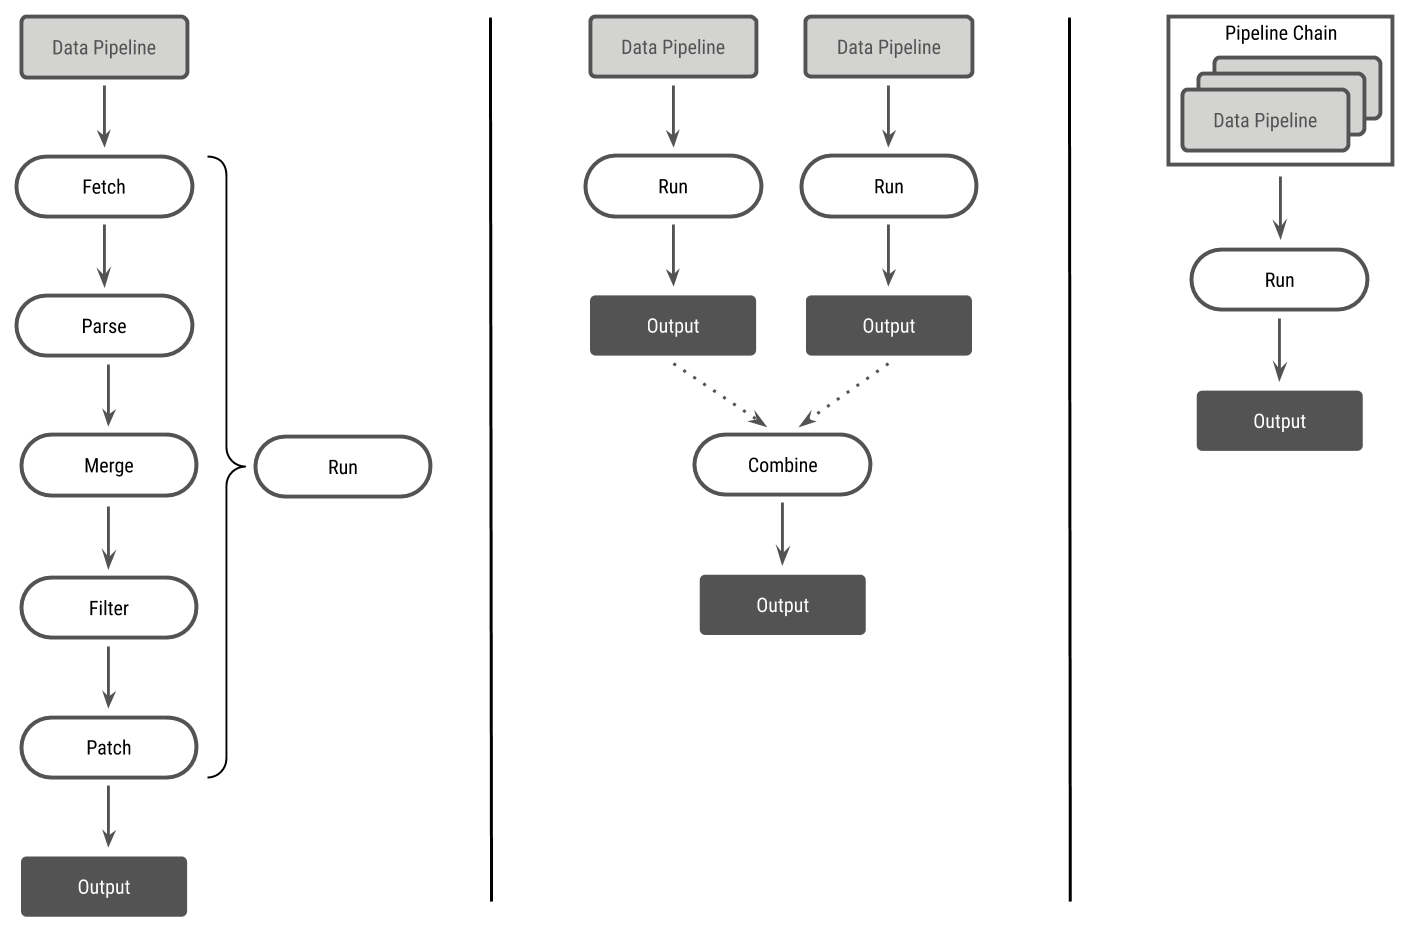
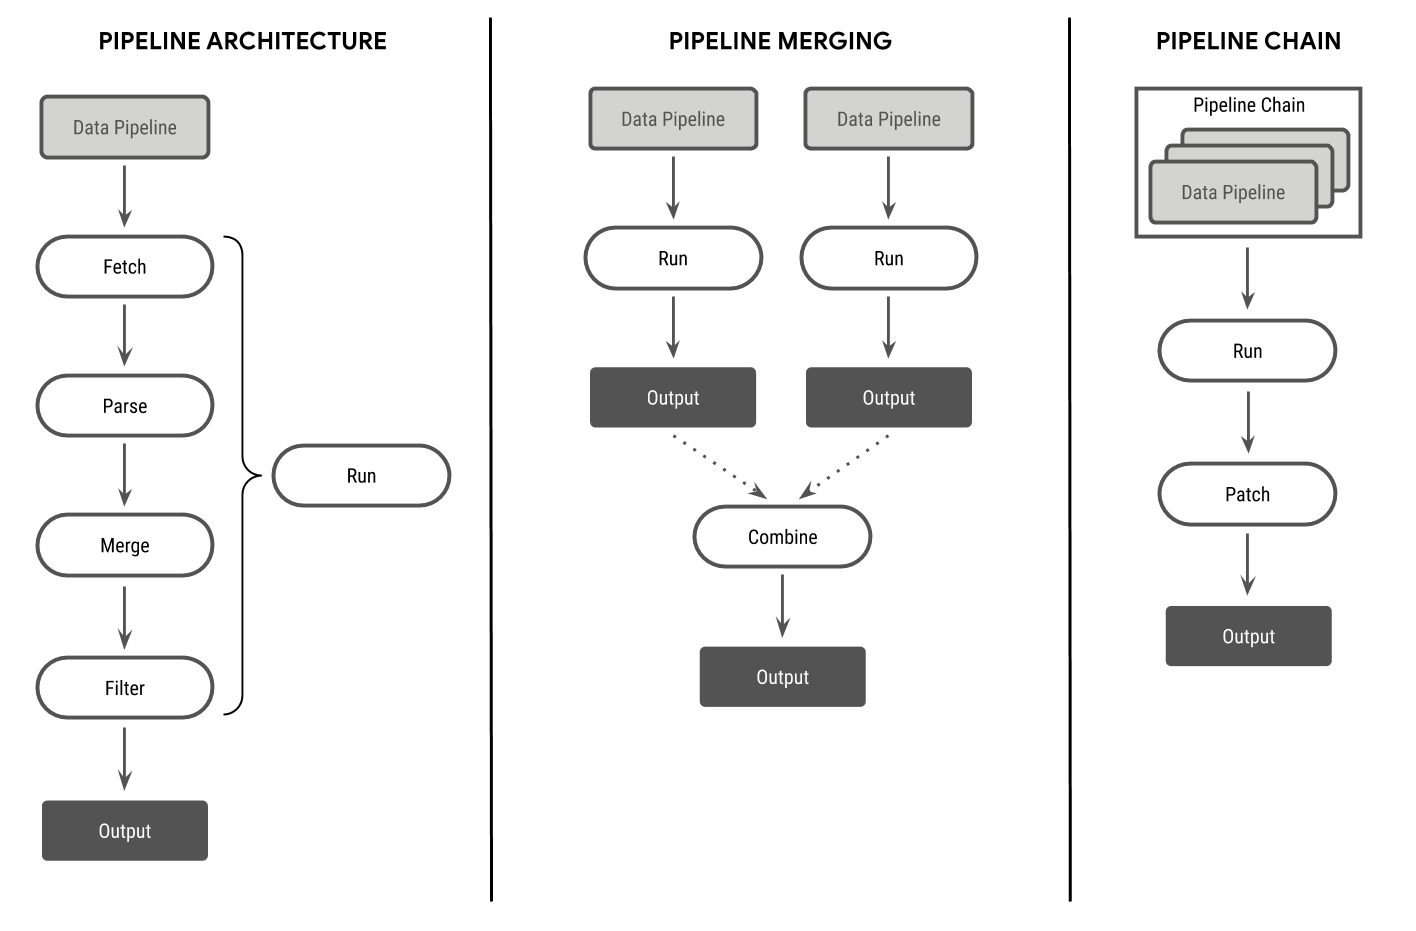
Remove `patch` from individual pipelines
The hotfixing functionality should be included at the pipeline chain
level instead, so a single hotfix dataframe can be used for each table

diff --git a/src/scripts/backcompat_forecast.py b/src/scripts/backcompat_forecast.py
@@ -1,0 +1,132 @@
+#!/usr/bin/env python
+
+import os
+import sys
+import datetime
+from pathlib import Path
+
+import numpy as np
+import pandas as pd
+from tqdm import tqdm
+from scipy import optimize
+
+# This script must be run from /src
+sys.path.append(os.getcwd())
+from lib.io import read_file
+from lib.utils import ROOT
+
+
+def _get_outbreak_mask(data: pd.DataFrame, threshold: int = 10):
+    """ Returns a mask for > N confirmed cases. Used to filter out uninteresting dates """
+    return data["Confirmed"] > threshold
+
+
+def _logistic_function(X: float, a: float, b: float, c: float):
+    """
+    Used for prediction model. Uses the function:
+    `f(x) = a * e^(-b * e^(-cx))`
+    """
+    return a * np.exp(-b * np.exp(-c * X))
+
+
+def _forward_indices(indices: list, window: int):
+    """ Adds `window` indices to a list of dates """
+    date_indices = [datetime.date.fromisoformat(idx) for idx in indices]
+    for _ in range(window):
+        date_indices.append(date_indices[-1] + datetime.timedelta(days=1))
+    return [idx.isoformat() for idx in date_indices]
+
+
+def _compute_forecast(data: pd.Series, window: int):
+    """
+    Perform a forecast of `window` days past the last day of `data`, including a model estimate of
+    all days already existing in `data`.
+    """
+
+    # Some of the parameter fittings result in overflow
+    np.seterr(all="ignore")
+
+    # Perform a simple fit of all available data up to this date
+    X, y = list(range(len(data))), data.tolist()
+    # Providing a reasonable initial guess is crucial for this model
+    params, _ = optimize.curve_fit(
+        _logistic_function, X, y, maxfev=int(1e6), p0=[max(y), np.median(X), 0.1]
+    )
+
+    # Append N new days to our indices
+    date_indices = _forward_indices(data.index, window)
+
+    # Perform projection with the previously estimated parameters
+    projected = [_logistic_function(x, *params) for x in range(len(X) + window)]
+    return pd.Series(projected, index=date_indices, name="Estimated")
+
+
+def _compute_record_key(record: dict):
+    """ Outputs the primary key for a dataframe row """
+    region_code = record.get("RegionCode")
+    country_code = record["CountryCode"]
+    key_suffix = "" if not region_code or pd.isna(region_code) else "_%s" % region_code
+    return country_code + key_suffix
+
+
+def main():
+    # Parse parameters
+    PREDICT_WINDOW = 7
+    DATAPOINT_COUNT = 28 + PREDICT_WINDOW
+
+    # Read data from the open COVID-19 dataset
+    df = pd.read_csv(ROOT / "public" / "data_minimal.csv").set_index("Date")
+
+    # Create the output dataframe ahead, we will fill it one row at a time
+    forecast_columns = ["ForecastDate", "Date", "Key", "Estimated", "Confirmed"]
+    df_forecast = pd.DataFrame(columns=forecast_columns).set_index(["Date", "Key"])
+
+    # Loop through each unique combination of country / region
+    for key in tqdm(df["Key"].unique()):
+
+        # Filter dataset
+        cols = ["Key", "Confirmed"]
+        # Get data only for the selected country / region
+        subset = df[df["Key"] == key][cols]
+        # Get data only after the outbreak begun
+        subset = subset[_get_outbreak_mask(subset)]
+        # Early exit: no outbreak found
+        if not len(subset):
+            continue
+        # Get a list of dates for existing data
+        date_range = map(
+            lambda datetime: datetime.date().isoformat(),
+            pd.date_range(subset.index[0], subset.index[-1]),
+        )
+
+        # Forecast date is equal to the date of the last known datapoint, unless manually supplied
+        forecast_date = subset.index[-1]
+        subset = subset[subset.index <= forecast_date].sort_index()
+
+        # Sometimes our data appears to have duplicate values for specific cases, work around that
+        subset = subset.query("~index.duplicated()")
+
+        # Early exit: If there are less than DATAPOINT_COUNT output datapoints
+        if len(subset) < DATAPOINT_COUNT - PREDICT_WINDOW:
+            continue
+
+        # Perform forecast
+        forecast_data = _compute_forecast(subset["Confirmed"], PREDICT_WINDOW)
+
+        # Capture only the last DATAPOINT_COUNT days
+        forecast_data = forecast_data.sort_index().iloc[-DATAPOINT_COUNT:]
+
+        # Fill out the corresponding index in the output forecast
+        for idx in forecast_data.index:
+            df_forecast.loc[(idx, key), "ForecastDate"] = forecast_date
+            df_forecast.loc[(idx, key), "Estimated"] = forecast_data.loc[idx]
+            if idx in subset.index:
+                df_forecast.loc[(idx, key), "Confirmed"] = int(subset.loc[idx, "Confirmed"])
+
+    # Do data cleanup here
+    data = df_forecast.reset_index()
+    forecast_columns = ["ForecastDate", "Date", "Key", "Estimated", "Confirmed"]
+    data = data.sort_values(["Key", "Date"])[forecast_columns]
+
+    # Output resulting dataframe
+    return data

diff --git a/src/lib/pipeline.py b/src/lib/pipeline.py
@@ -30,7 +30,6 @@ class DataPipeline:
     1. Parse: convert raw data to structured format
     1. Merge: associate each record with a known `key`
     1. Filter: filter out unneeded data and keep only desired output columns
-    1. Patch: apply hotfixes to specific data issues
     """
 
     def fetch(self, cache: Dict[str, str], **fetch_opts) -> List[str]:
@@ -56,12 +55,6 @@ class DataPipeline:
         """ Outputs a filtered version of the input dataset respecting `filter_opts`. """
         ...
 
-    def patch(self, data: DataFrame, patch: DataFrame, **patch_opts) -> DataFrame:
-        """
-        Outputs a patched version of the dataframe overwriting records from `data` with `patch`.
-        """
-        ...
-
     def run(
         self,
         cache: Dict[str, str],
@@ -71,8 +64,6 @@ class DataPipeline:
         merge_opts: Dict[str, Any] = None,
         filter_func: Callable[[Any], bool] = None,
         filter_opts: Dict[str, Any] = None,
-        patch: DataFrame = None,
-        patch_opts: Dict[str, Any] = None,
     ) -> DataFrame:
         data: DataFrame = None
 
@@ -93,10 +84,6 @@ class DataPipeline:
         if filter_func is not None:
             data = self.filter(data, filter_func, **(filter_opts or {}))
 
-        # Patch the data only if necessary
-        if patch is not None:
-            data = self.patch(data, patch, **(patch_opts or {}))
-
         # Return the final dataframe
         return data
 
@@ -107,7 +94,6 @@ class DefaultPipeline(DataPipeline):
     * Fetch: downloads raw data from a list of URLs into ../snapshots folder. See [lib.net].
     * Merge: outputs a key from the auxiliary dataset after performing best-effort matching.
     * Filter: applies `filter_func` to each record and keeps the rows for which the result is `true`
-    * Patch: applies the `patch` dataframe to substitute the values in the existing dataframe
 
     The merge function provided here is crucial for many pipelines that use it. The easiest/fastest
     way to merge records is by providing the exact `key` that will match an existing record in the
@@ -200,11 +186,6 @@ class DefaultPipeline(DataPipeline):
         self, data: DataFrame, filter_func: Callable[[Any], bool], **filter_opts
     ) -> DataFrame:
         return data[data.apply(filter_func, axis=1)]
-
-    def patch(self, data: DataFrame, patch: DataFrame, **patch_opts) -> DataFrame:
-        data = data.copy()
-        data[patch.index] = patch
-        return data
 
     def parse_dataframes(
         self, dataframes: List[DataFrame], aux: Dict[str, DataFrame], **parse_opts

diff --git a/src/scripts/publish_dataset.py b/src/scripts/publish_dataset.py
@@ -11,6 +11,8 @@ sys.path.append(os.getcwd())
 from lib.io import read_file
 from lib.utils import ROOT
 
+from backcompat_forecast import main as build_forecast
+
 
 def snake_to_camel_case(txt: str) -> str:
     """ Used to convert V2 column names to V1 column names for backwards compatibility """
@@ -57,13 +59,7 @@ data = data.sort_values(["Date", "Key"])
 data.to_csv(v1_folder / "data.csv", index=False)
 
 # Create the v1 minimal.csv file
-data[['Date', 'Key', 'Confirmed', 'Deaths']].to_csv(v1_folder / 'minimal.csv', index=False)
-
-# Create the v1 mobility.csv file
-# TMP: mobility reports are not in V2 yet, copy that last known one as-is
-read_csv(
-    "https://open-covid-19.github.io/data/mobility.csv", keep_default_na=False, na_values=[""]
-).to_csv(v1_folder / "mobility.csv", index=False)
+data[["Date", "Key", "Confirmed", "Deaths"]].to_csv(v1_folder / "data_minimal.csv", index=False)
 
 # Create the v1 CSV files which only require column mapping
 v1_v2_name_map = {"response": "oxford-government-response", "weather": "weather"}
@@ -71,6 +67,15 @@ for v1_name, v2_name in v1_v2_name_map.items():
     df = read_csv(v2_folder / f"{v2_name}.csv")
     df.columns = list(map(snake_to_camel_case, df.columns))
     df.to_csv(v1_folder / f"{v1_name}.csv", index=False)
+
+# Create the v1 mobility.csv file
+build_forecast().to_csv(v1_folder / "forecast.csv", index=False)
+read_csv(
+    "https://open-covid-19.github.io/data/mobility.csv", keep_default_na=False, na_values=[""]
+).to_csv(v1_folder / "mobility.csv", index=False)
+
+# Create the v1 forecast.csv file
+build_forecast().to_csv(v1_folder / 'forecast.csv', index=False)
 
 # Convert all v1 CSV files to JSON using record format
 for csv_file in (v1_folder).glob("*.csv"):

diff --git a/cache/fetch.py b/cache/fetch.py
@@ -82,7 +82,7 @@ for source in json.loads(open("cached_sources.json", "r").read()):
 # Build a "sitemap" of the cache output folder
 sitemap: Dict[str, List[str]] = {}
 for snapshot in output_path.iterdir():
-    if str(snapshot).startswith(".") or snapshot.name == "sitemap.json":
+    if snapshot.name.startswith(".") or snapshot.name == "sitemap.json":
         continue
     if snapshot.is_file():
         warnings.warn(f"Unexpected file seen in root of {snapshot}")
@@ -94,7 +94,7 @@ for snapshot in output_path.iterdir():
         sitemap_key = cached_file.stem
         snapshot_list = sitemap.get(sitemap_key, [])
         snapshot_list.append(str(cached_file.relative_to(output_path)))
-        sitemap[sitemap_key] = snapshot_list
+        sitemap[sitemap_key] = list(sorted(snapshot_list))
 
 # Output the sitemap
 with open(output_path / "sitemap.json", "w") as fd:

diff --git a/README.md b/README.md
@@ -111,7 +111,7 @@ region, which is helpful for displaying purposes or when merging with other data
 | **subregion2_name** | `string` | (Optional) American English name of the county (or local equivalent), subject to change | Alameda County |
 | **3166-1-alpha-2** | `string` | ISO 3166-1 alphanumeric 2-letter code of the country | US |
 | **3166-1-alpha-3** | `string` | ISO 3166-1 alphanumeric 3-letter code of the country | USA |
-| **aggregation_level** | `integer` [0-2] | Level at which data is aggregated, i.e. country, state/province or county level | 2 |
+| **aggregation_level** | `integer` `[0-2]` | Level at which data is aggregated, i.e. country, state/province or county level | 2 |
 
 ### Demographics
 Information related to the population demographics for each region:
@@ -129,8 +129,8 @@ Information related to the economic development for each region:
 | Name | Name | Description | Example |
 | ---- | ---- | ----------- | ------- |
 | **key** | `string` | Unique string identifying the region | CN_HB |
-| **gdp** | `integer` [USD] | Gross domestic product; monetary value of all finished goods and services | 24450604878 |
-| **gdp_per_capita** | `integer` [USD] | Gross domestic product divided by total population | 1148 |
+| **gdp** | `integer` `[USD]` | Gross domestic product; monetary value of all finished goods and services | 24450604878 |
+| **gdp_per_capita** | `integer` `[USD]` | Gross domestic product divided by total population | 1148 |
 
 ### Epidemiology
 Information related to the COVID-19 infections for each date-region pair:
@@ -174,24 +174,24 @@ Summary of a government's response to the events, including a *stringency index*
 | ---- | ---- | ----------- | ------- |
 | **date** | `string` | ISO 8601 date (YYYY-MM-DD) of the datapoint | 2020-03-30 |
 | **key** | `string` | Unique string identifying the region | US_CA |
-| **school_closing** | `integer` [0-3] | Schools are closed | 2 |
-| **workplace_closing** | `integer` [0-3] | Workplaces are closed | 2 |
-| **cancel_public_events** | `integer` [0-3] | Public events have been cancelled | 2 |
-| **restrictions_on_gatherings** | `integer` [0-3] | Gatherings of non-household members are restricted | 2 |
-| **public_transport_closing** | `integer` [0-3] | Public transport is not operational | 0 |
-| **stay_at_home_requirements** | `integer` [0-3] | Self-quarantine at home is mandated for everyone | 0 |
-| **restrictions_on_internal_movement** | `integer` [0-3] | Travel within country is restricted | 1 |
-| **international_travel_controls** | `integer` [0-3] | International travel is restricted | 3 |
-| **income_support** | `integer` [USD] | Value of fiscal stimuli, including spending or tax cuts | 20449287023 |
-| **debt_relief** | `integer` [0-3] | Debt/contract relief for households | 0 |
-| **fiscal_measures** | `integer` [USD] | Value of fiscal stimuli, including spending or tax cuts | 20449287023 |
-| **international_support** | `integer` [USD] | Giving international support to other countries | 274000000 |
-| **public_information_campaigns** | `integer` [0-2] | Government has launched public information campaigns | 1 |
-| **testing_policy** | `integer` [0-3] | Country-wide COVID-19 testing policy | 1 |
-| **contact_tracing** | `integer` [0-2] | Country-wide contact tracing policy | 1 |
-| **emergency_investment_in_healthcare** | `integer` [USD] | Emergency funding allocated to healthcare | 500000 |
-| **investment_in_vaccines** | `integer` [USD] | Emergency funding allocated to vaccine research | 100000 |
-| **stringency_index** | `double` [0-100] | Overall stringency index | 71.43 |
+| **school_closing** | `integer` `[0-3]` | Schools are closed | 2 |
+| **workplace_closing** | `integer` `[0-3]` | Workplaces are closed | 2 |
+| **cancel_public_events** | `integer` `[0-3]` | Public events have been cancelled | 2 |
+| **restrictions_on_gatherings** | `integer` `[0-3]` | Gatherings of non-household members are restricted | 2 |
+| **public_transport_closing** | `integer` `[0-3]` | Public transport is not operational | 0 |
+| **stay_at_home_requirements** | `integer` `[0-3]` | Self-quarantine at home is mandated for everyone | 0 |
+| **restrictions_on_internal_movement** | `integer` `[0-3]` | Travel within country is restricted | 1 |
+| **international_travel_controls** | `integer` `[0-3]` | International travel is restricted | 3 |
+| **income_support** | `integer` `[USD]` | Value of fiscal stimuli, including spending or tax cuts | 20449287023 |
+| **debt_relief** | `integer` `[0-3]` | Debt/contract relief for households | 0 |
+| **fiscal_measures** | `integer` `[USD]` | Value of fiscal stimuli, including spending or tax cuts | 20449287023 |
+| **international_support** | `integer` `[USD]` | Giving international support to other countries | 274000000 |
+| **public_information_campaigns** | `integer` `[0-2]` | Government has launched public information campaigns | 1 |
+| **testing_policy** | `integer` `[0-3]` | Country-wide COVID-19 testing policy | 1 |
+| **contact_tracing** | `integer` `[0-2]` | Country-wide contact tracing policy | 1 |
+| **emergency_investment_in_healthcare** | `integer` `[USD]` | Emergency funding allocated to healthcare | 500000 |
+| **investment_in_vaccines** | `integer` `[USD]` | Emergency funding allocated to vaccine research | 100000 |
+| **stringency_index** | `double` `[0-100]` | Overall stringency index | 71.43 |
 
 For more information about each field and how the overall stringency index is
 computed, see the [Oxford COVID-19 government response tracker][18].
@@ -204,11 +204,11 @@ Daily weather information from nearest station reported by NOAA:
 | **date** | `string` | ISO 8601 date (YYYY-MM-DD) of the datapoint | 2020-03-30 |
 | **key** | `string` | Unique string identifying the region | US_CA |
 | **station** | `string` | Identifier for the weather station | USC00206080 |
-| **distance** | `double` [kilometers] | Distance between the location coordinates and the weather station | 28.693 |
-| **minimum_temperature** | `double` [celsius] | Recorded hourly minimum temperature | 1.7 |
-| **maximum_temperature** | `double` [celsius] | Recorded hourly maximum temperature | 19.4 |
-| **rainfall** | `double` [millimeters] | Rainfall during the entire day | 51.0 |
-| **snowfall** | `double` [millimeters] | Snowfall during the entire day | 0.0 |
+| **distance** | `double` `[kilometers]` | Distance between the location coordinates and the weather station | 28.693 |
+| **minimum_temperature** | `double` `[celsius]` | Recorded hourly minimum temperature | 1.7 |
+| **maximum_temperature** | `double` `[celsius]` | Recorded hourly maximum temperature | 19.4 |
+| **rainfall** | `double` `[millimeters]` | Rainfall during the entire day | 51.0 |
+| **snowfall** | `double` `[millimeters]` | Snowfall during the entire day | 0.0 |
 
 ### Google Mobility
 Google's [Mobility Reports][17] are presented in CSV form as
@@ -219,12 +219,12 @@ following columns:
 | ---- | ---- | ----------- | ------- |
 | **date** | `string` | ISO 8601 date (YYYY-MM-DD) of the datapoint | 2020-03-30 |
 | **key** | `string` | Unique string identifying the region | US_CA |
-| **transit_stations** | `double` [%] |  Percentage change in visits to transit station locations | -15 |
-| **retail_and_recreation** | `double` [%] |  Percentage change in visits to retail and recreation locations | -15 |
-| **grocery_and_pharmacy** | `double` [%] |  Percentage change in visits to grocery and pharmacy locations | -15 |
-| **parks** | `double` [%] |  Percentage change in visits to park locations | -15 |
-| **residential** | `double` [%] |  Percentage change in visits to residential locations | -15 |
-| **workplaces** | `double` [%] |  Percentage change in visits to workplace locations | -15 |
+| **transit_stations** | `double` `[%]` |  Percentage change in visits to transit station locations | -15 |
+| **retail_and_recreation** | `double` `[%]` |  Percentage change in visits to retail and recreation locations | -15 |
+| **grocery_and_pharmacy** | `double` `[%]` |  Percentage change in visits to grocery and pharmacy locations | -15 |
+| **parks** | `double` `[%]` |  Percentage change in visits to park locations | -15 |
+| **residential** | `double` `[%]` |  Percentage change in visits to residential locations | -15 |
+| **workplaces** | `double` `[%]` |  Percentage change in visits to workplace locations | -15 |
 
 ### Notes about the data
 For countries where both country-level and subregion-level data is available, the entry which has a

diff --git a/src/README.md b/src/README.md
@@ -39,7 +39,6 @@ executed in order:
 1. Parse: convert raw data to structured format
 1. Merge: associate each record with a known `key`
 1. Filter: filter out unneeded data and keep only desired output columns
-1. Patch: apply hotfixes to specific data issues
 
 The majority of the processing in a pipeline will likely take place in the `parse` step. All
 individual records output by the pipeline have to follow the following guidelines:
